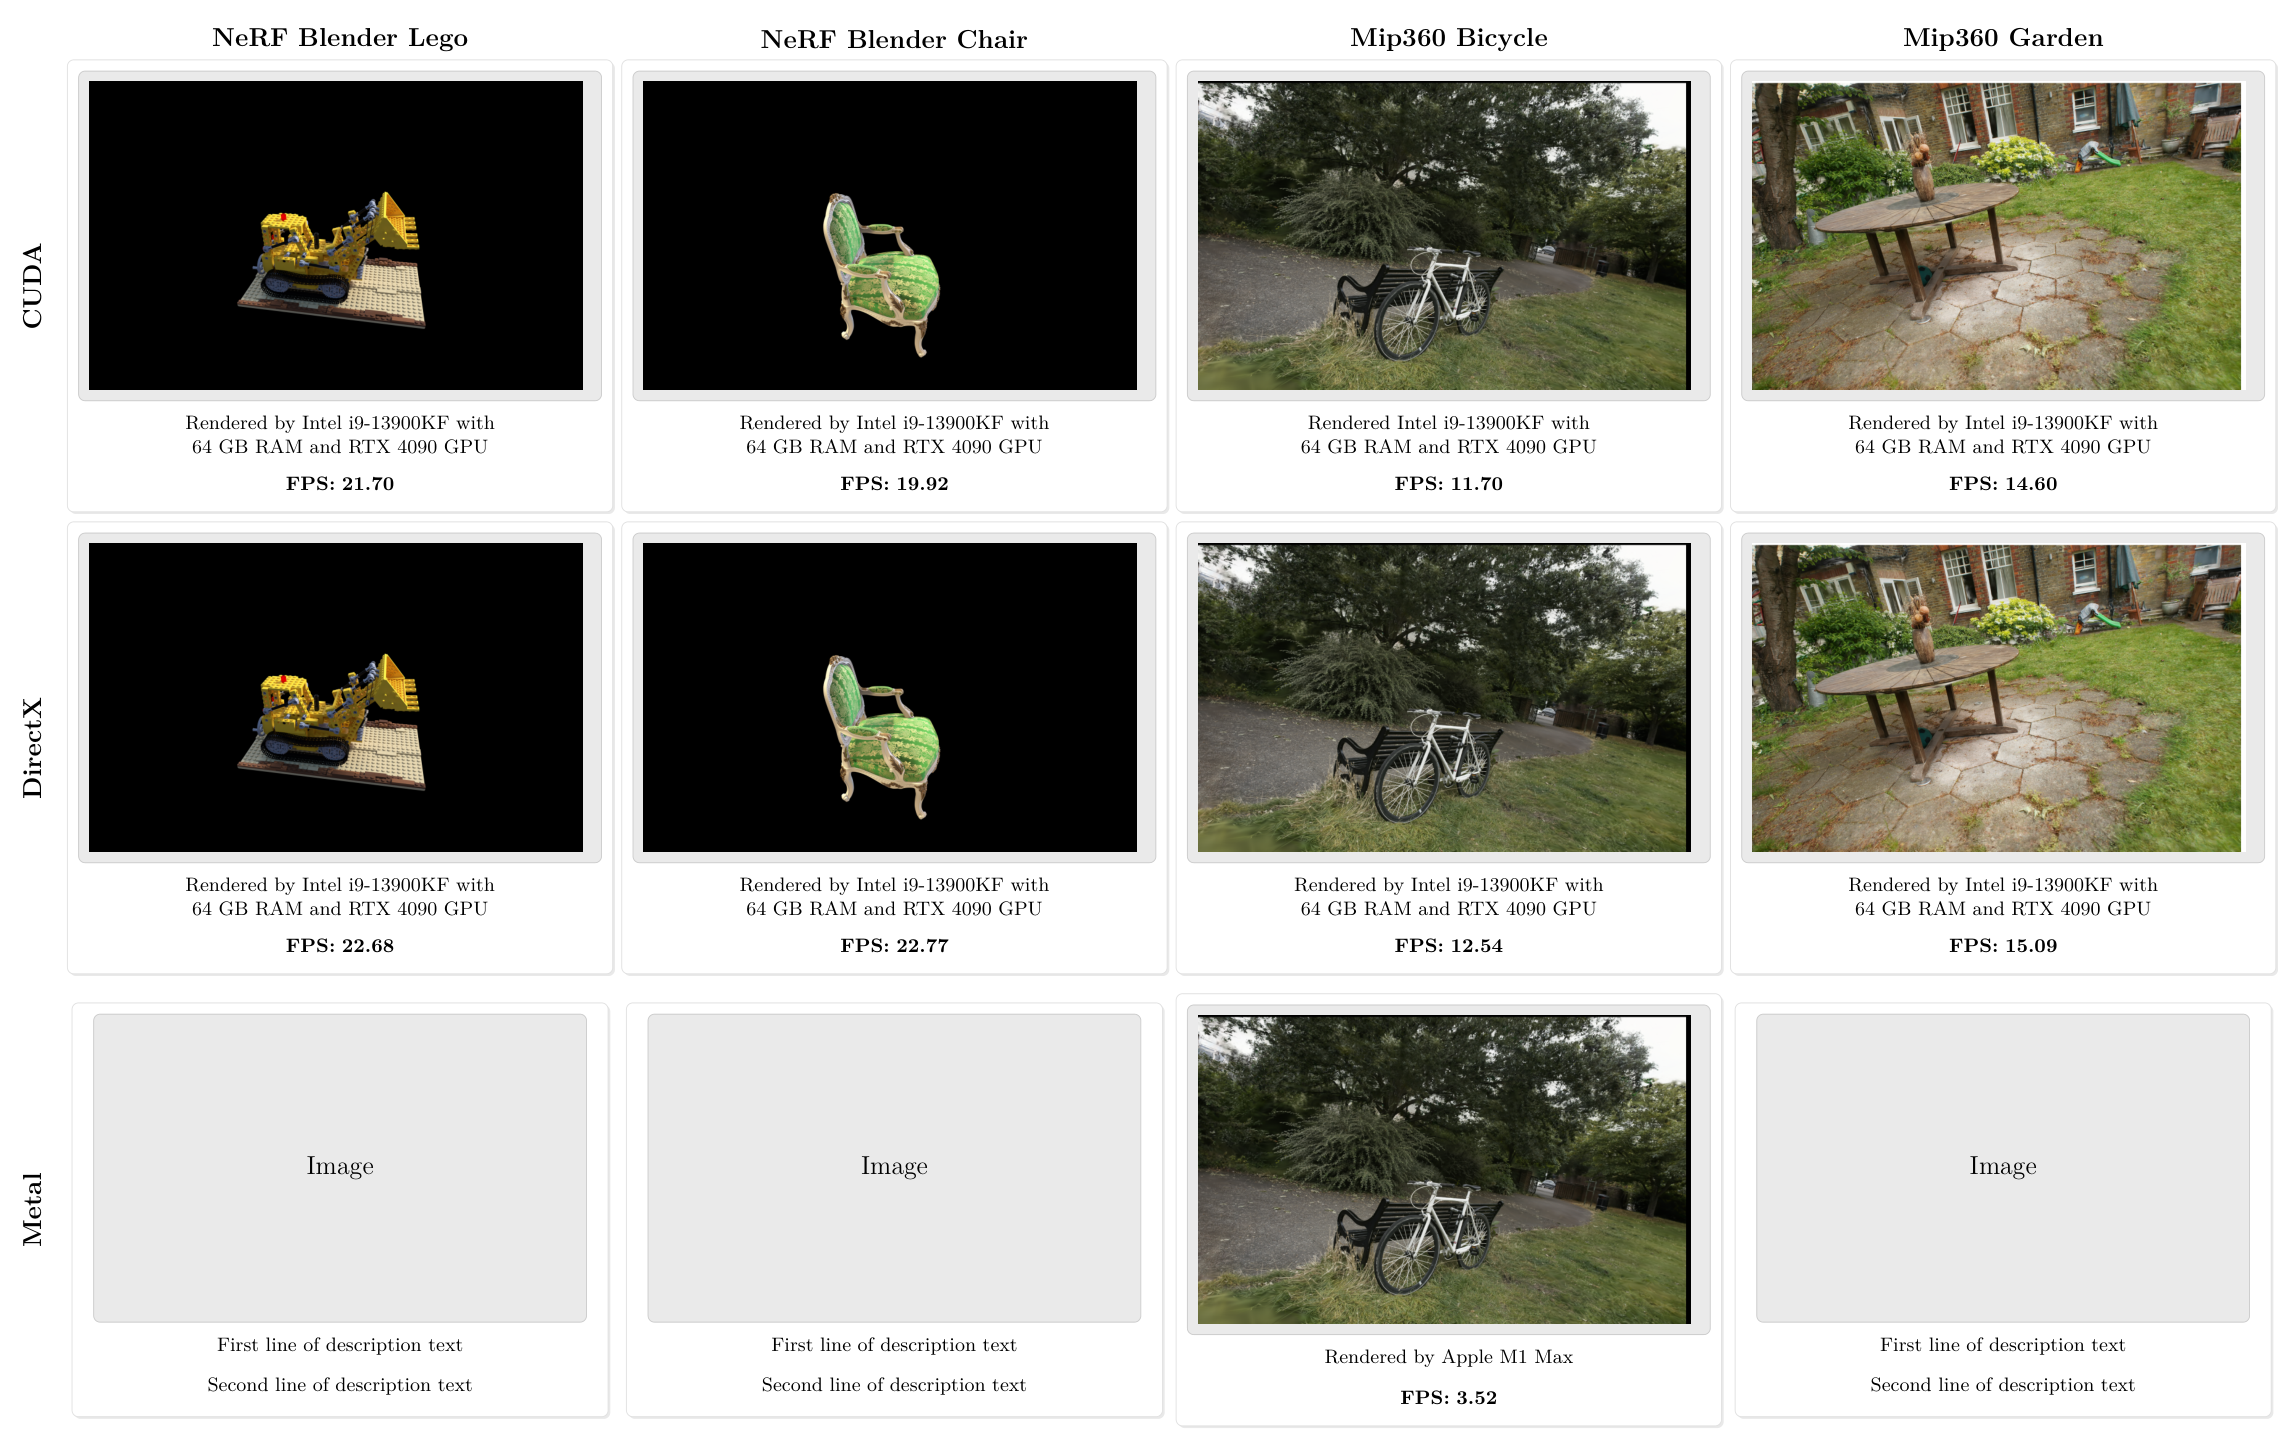
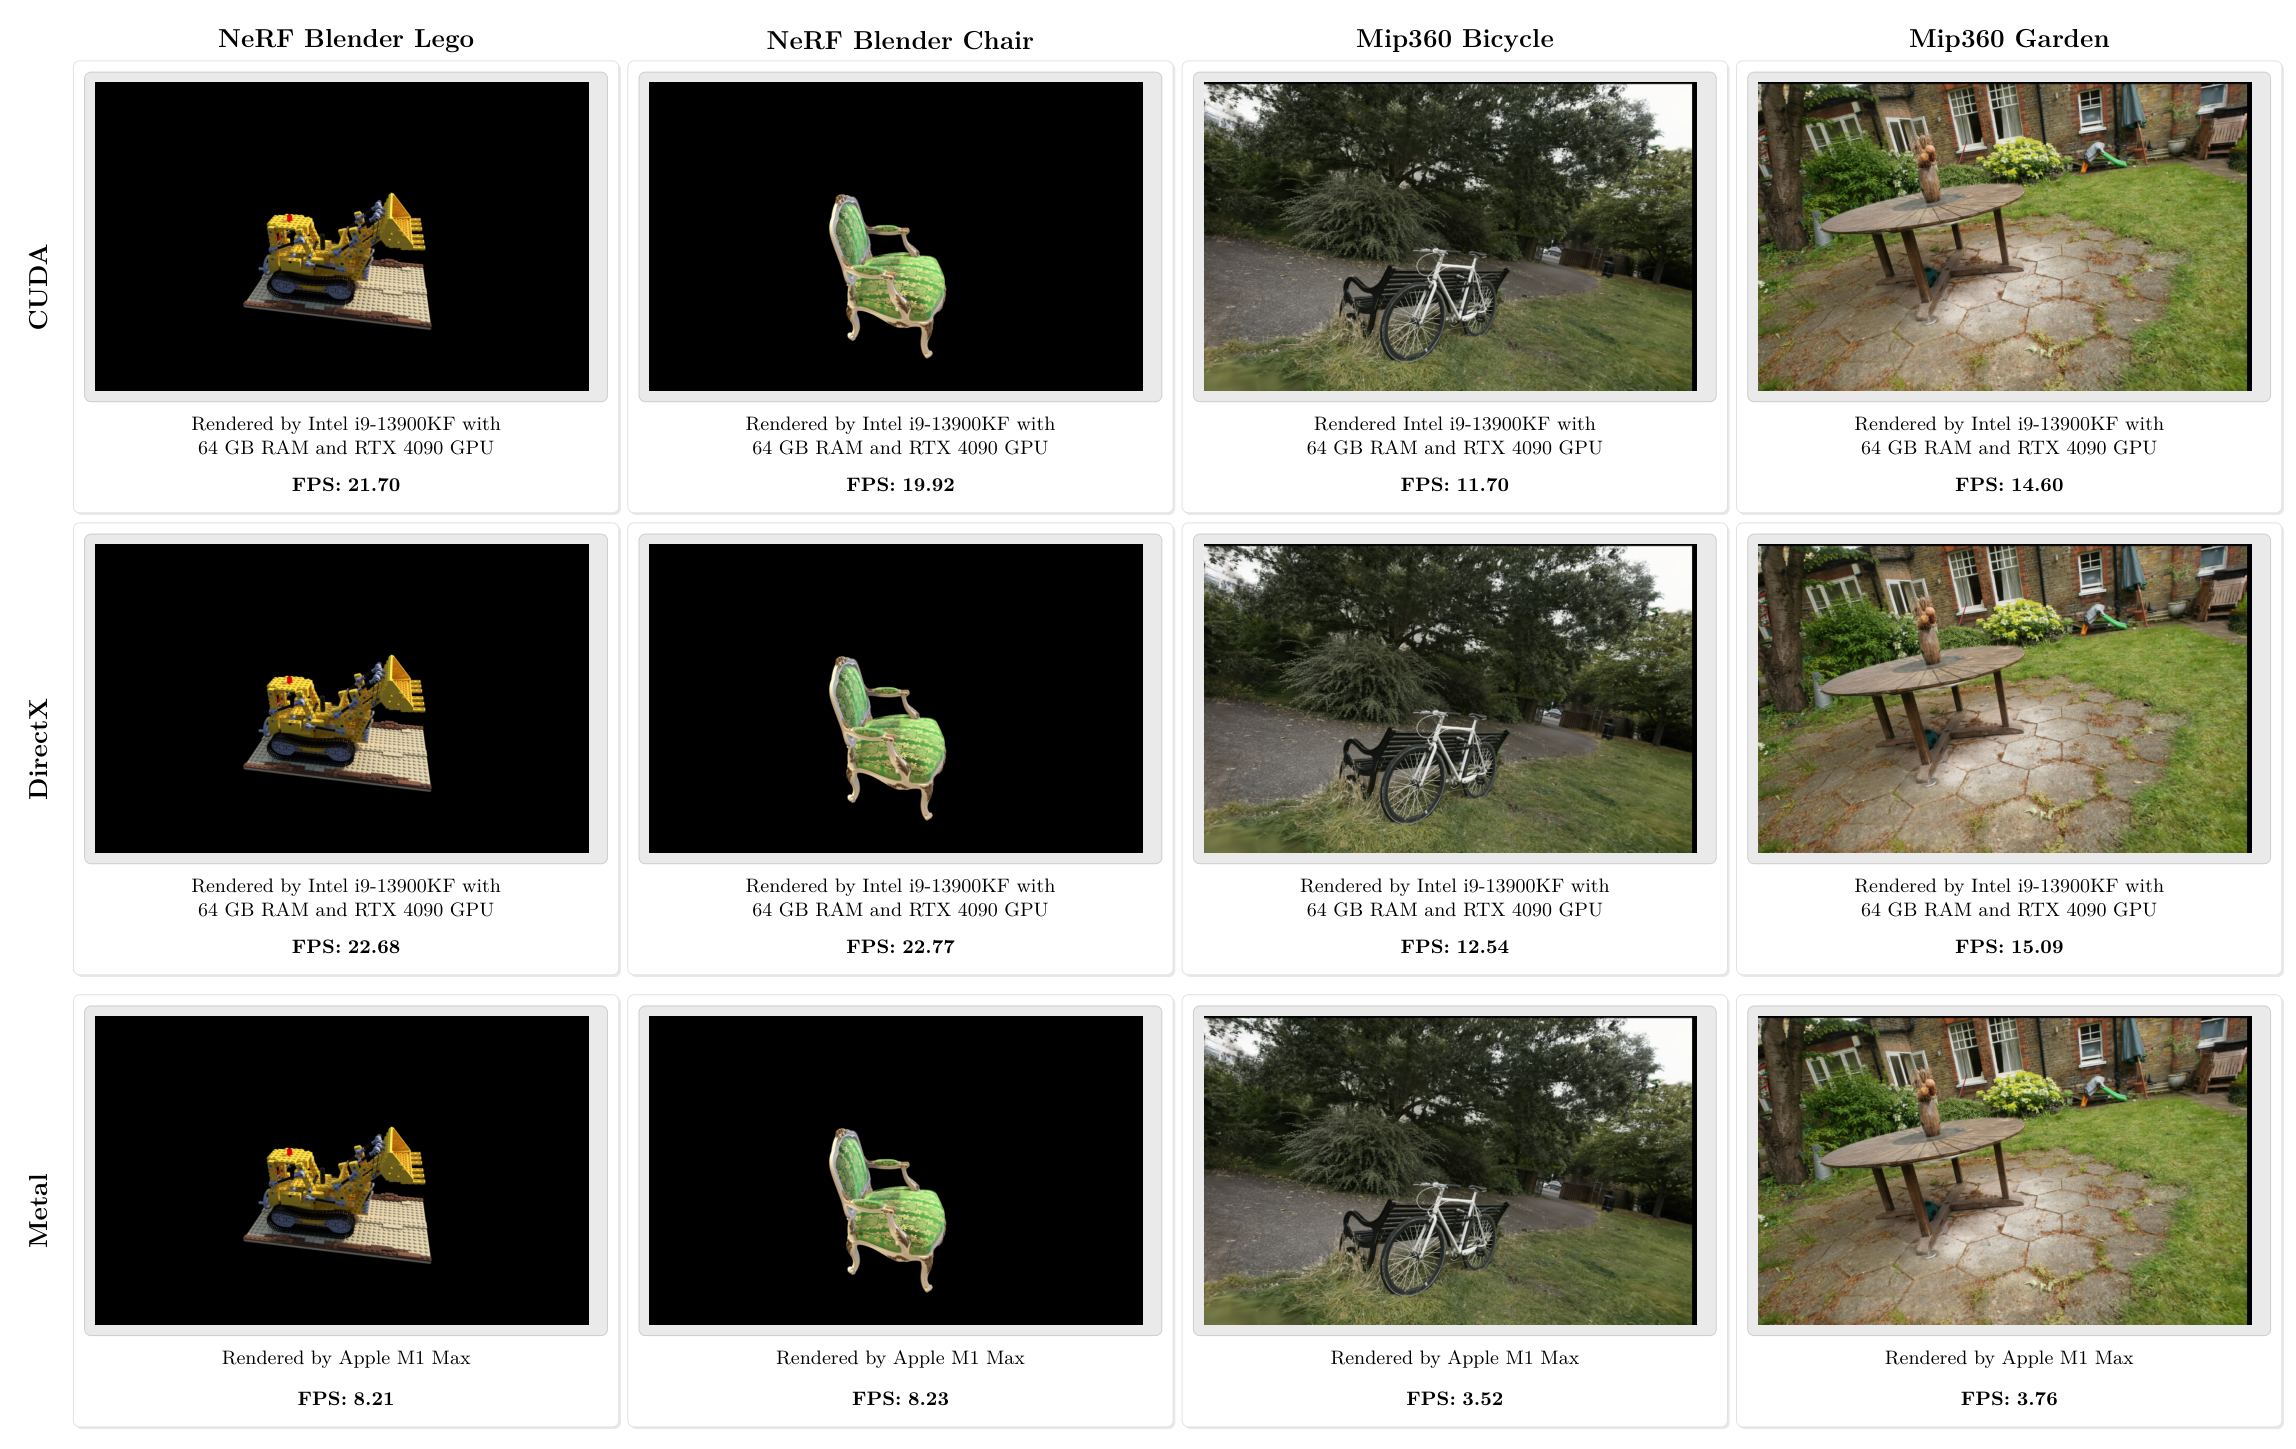
add compare result

diff --git a/doc/fig_lcgs_compare.tex b/doc/fig_lcgs_compare.tex
@@ -69,7 +69,7 @@
                 \includegraphics[width=8cm,height=5cm]{nerf_blender_lego_30000_cuda.png}
             };
             \node[desc, below=0.05cm of img11] (desc11a) {Rendered by \deviceOne };
-            \node[desc, below=0.01cm of desc11a] (desc11b) {\bf FPS };
+            \node[desc, below=0.01cm of desc11a] (desc11b) {\bf FPS: 21.70 };
         \end{tikzpicture}
     };
     
@@ -80,7 +80,7 @@
                 \includegraphics[width=8cm,height=5cm]{nerf_blender_chair_30000_cuda.png}
             };
             \node[desc, below=0.05cm of img12] (desc12a) {Rendered by \deviceOne };
-            \node[desc, below=0.01cm of desc12a] (desc12b) {\bf FPS };
+            \node[desc, below=0.01cm of desc12a] (desc12b) {\bf FPS: 19.92 };
         \end{tikzpicture}
     };
     
@@ -102,7 +102,7 @@
                 \includegraphics[width=8cm,height=5cm]{mip360_garden_30000_cuda.png}
             };
             \node[desc, below=0.05cm of img14] (desc14a) {Rendered by \deviceOne };
-            \node[desc, below=0.01cm of desc14a] (desc14b) {\bf FPS };
+            \node[desc, below=0.01cm of desc14a] (desc14b) {\bf FPS: 14.60 };
         \end{tikzpicture}
     };
 \end{scope}
@@ -116,7 +116,7 @@
                 \includegraphics[width=8cm,height=5cm]{nerf_blender_lego_30000_dx.png}
             };
             \node[desc, below=0.05cm of img21] (desc21a) {Rendered by \deviceOne };
-            \node[desc, below=0.01cm of desc21a] (desc21b) {\bf FPS };
+            \node[desc, below=0.01cm of desc21a] (desc21b) {\bf FPS: 22.68 };
         \end{tikzpicture}
     };
     
@@ -127,7 +127,7 @@
                 \includegraphics[width=8cm,height=5cm]{nerf_blender_chair_30000_dx.png}
             };
             \node[desc, below=0.05cm of img22] (desc22a) {Rendered by \deviceOne };
-            \node[desc, below=0.01cm of desc22a] (desc22b) {\bf FPS };
+            \node[desc, below=0.01cm of desc22a] (desc22b) {\bf FPS: 22.77 };
         \end{tikzpicture}
     };
     
@@ -149,7 +149,7 @@
                 \includegraphics[width=8cm,height=5cm]{mip360_garden_30000_dx.png}
             };
             \node[desc, below=0.05cm of img24] (desc24a) {Rendered by \deviceOne };
-            \node[desc, below=0.01cm of desc24a] (desc24b) {\bf FPS };
+            \node[desc, below=0.01cm of desc24a] (desc24b) {\bf FPS: 15.09 };
         \end{tikzpicture}
     };
 \end{scope}
@@ -160,18 +160,22 @@
     % Cell (3,1)
     \node[cell] (cell31) at (\colOne,\rowThree) {
         \begin{tikzpicture}
-            \node[image] (img31) {Image};
-            \node[desc, below=0.05cm of img31] (desc31a) {First line of description text};
-            \node[desc, below=0.01cm of desc31a] (desc31b) {Second line of description text};
+            \node[image] (img31) {
+                \includegraphics[width=8cm,height=5cm]{nerf_blender_lego_30000_metal.png}
+            };
+            \node[desc, below=0.05cm of img31] (desc31a) { Rendered by \deviceThree };
+            \node[desc, below=0.01cm of desc31a] (desc31b) {\bf FPS: 8.21};
         \end{tikzpicture}
     };
     
     % Cell (3,2)
     \node[cell] (cell32) at (\colTwo,\rowThree) {
         \begin{tikzpicture}
-            \node[image] (img32) {Image};
-            \node[desc, below=0.05cm of img32] (desc32a) {First line of description text};
-            \node[desc, below=0.01cm of desc32a] (desc32b) {Second line of description text};
+            \node[image] (img32) {
+                \includegraphics[width=8cm,height=5cm]{nerf_blender_chair_30000_metal.png}
+            };
+            \node[desc, below=0.05cm of img32] (desc32a) {Rendered by \deviceThree };
+            \node[desc, below=0.01cm of desc32a] (desc32b) {\bf FPS: 8.23};
         \end{tikzpicture}
     };
     
@@ -189,9 +193,11 @@
     % Cell (3,4)
     \node[cell] (cell34) at (\colFour,\rowThree) {
         \begin{tikzpicture}
-            \node[image] (img34) {Image};
-            \node[desc, below=0.05cm of img34] (desc34a) {First line of description text};
-            \node[desc, below=0.01cm of desc34a] (desc34b) {Second line of description text};
+            \node[image] (img34) {
+                \includegraphics[width=8cm,height=5cm]{mip360_garden_30000_metal.png}
+            };
+            \node[desc, below=0.05cm of img34] (desc34a) {Rendered by \deviceThree };
+            \node[desc, below=0.01cm of desc34a] (desc34b) {\bf FPS: 3.76};
         \end{tikzpicture}
     };
 \end{scope}

diff --git a/app/main.cpp b/app/main.cpp
@@ -146,13 +146,13 @@ int main(int argc, char** argv)
     // luisa::float3 pos = { 0.0f, -3.0f, 3.0f };
 
     // garden
-    // luisa::float3 pos    = { -3.0f, -0.5f, 3.3f };
-    // luisa::float3 target = { 0.0f, 3.0f, 0.5f };
-    // luisa::float3 world_up = { 0.0f, -1.0f, -1.0f };
+    luisa::float3 pos      = { -3.0f, -0.5f, 3.3f };
+    luisa::float3 target   = { 0.0f, 3.0f, 0.5f };
+    luisa::float3 world_up = { 0.0f, -1.0f, -1.0f };
     // lego and bicycle
-    luisa::float3 pos      = { -3.0f, -0.5f, 2.3f };
-    luisa::float3 target   = { 0.0f, 0.0f, 0.5f };
-    luisa::float3 world_up = { 0.0f, -1.0f, -0.0f };
+    // luisa::float3 pos      = { -3.0f, -0.5f, 2.3f };
+    // luisa::float3 target   = { 0.0f, 0.0f, 0.5f };
+    // luisa::float3 world_up = { 0.0f, -1.0f, -0.0f };
 
     if (world_type == WorldType::BLENDER)
     {
